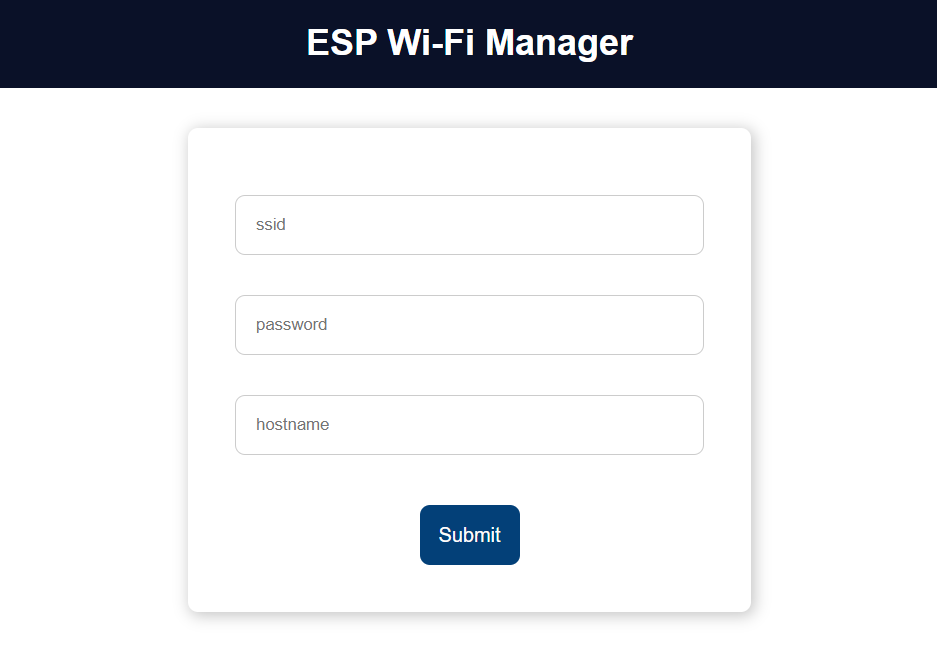
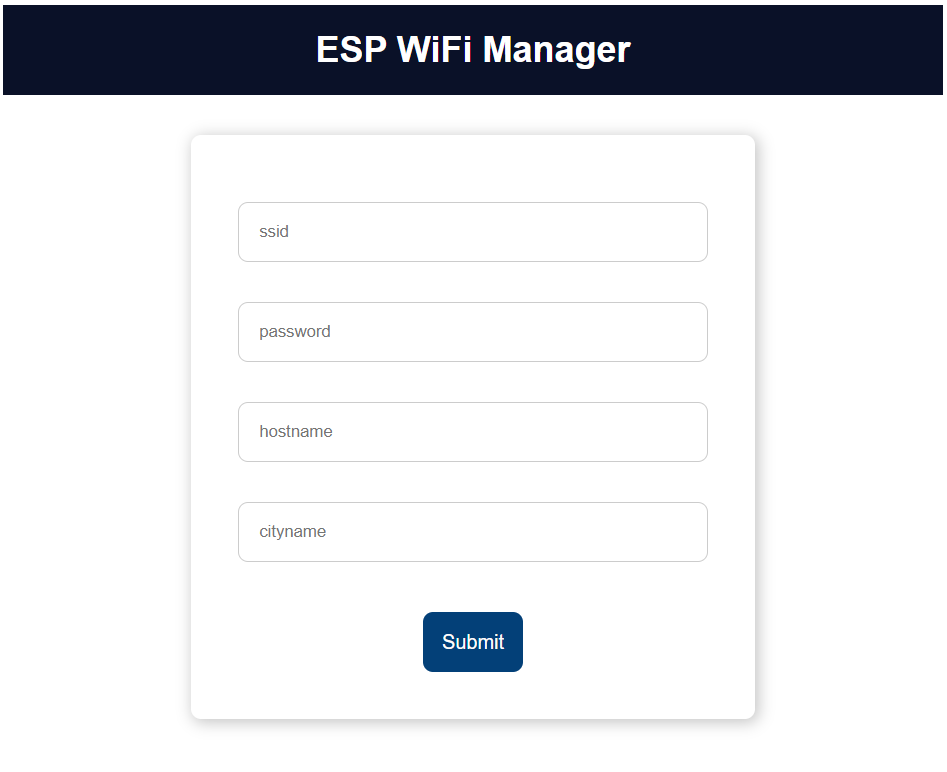
Rewrite README

diff --git a/WiFi_Manager/data/wifimanager.html b/WiFi_Manager/data/wifimanager.html
@@ -5,7 +5,7 @@
     <meta http-equiv="X-UA-Compatible" content="IE=edge" />
     <meta name="viewport" content="width=device-width, initial-scale=1.0" />
     <link rel="stylesheet" type="text/css" href="style.css" />
-    <title>WIFI Manager</title>
+    <title>WiFi Manager</title>
   </head>
   <body>
     <div class="topnav">

diff --git a/WiFi_Manager/OLED.h b/WiFi_Manager/OLED.h
@@ -1,0 +1,97 @@
+void show_receive_error() {
+    // Update NTP time
+    timeClient.update();
+    String formattedTime = timeClient.getFormattedTime();
+
+    oled.clear();
+    oled.drawBitmap(80, 30, 40, 32, error_40x32);
+    oled.drawBitmap(112, 4, 16, 16, signal_16x16);
+    oled.setFont(&Dialog_bold_10);
+    oled.print(30, 4, formattedTime.c_str());
+    oled.drawFastHLine(0, 20, 128);
+    oled.print(0, 24, "Receive");
+    oled.print(0, 37, "Error:");
+    oled.print(0, 50, String(weather.code).c_str());
+    oled.show();
+}
+
+void show_weather() {
+    // Update NTP time
+    timeClient.update();
+    String formattedTime = timeClient.getFormattedTime();
+
+    oled.clear();
+    // Show weather status
+    if (weather.weather == "Rain" || weather.weather == "Drizzle") {
+        oled.drawBitmap(80, 25, 40, 40, rain_40x40);
+    } else if (weather.weather == "Thunderstorm") {
+        oled.drawBitmap(80, 25, 40, 40, thunderstorm_40x40);
+    } else if (weather.weather == "Snow") {
+        oled.drawBitmap(80, 25, 40, 40, snow_40x40);
+    } else if (weather.weather == "Clouds") {
+        oled.drawBitmap(80, 30, 40, 32, cloud_40x32);
+    } else if (weather.weather == "Clear") {
+        oled.drawBitmap(80, 30, 40, 32, sun_40x32);
+    } else {
+        oled.drawBitmap(80, 30, 40, 32, mist_40x32);
+    }
+    oled.drawBitmap(112, 4, 16, 16, signal_16x16);
+    // Show temp and humidity
+    oled.setFont(&Orbitron_Bold_16);
+    char message[50] = {0};
+    sprintf(message, "%3.1f-C", weather.temp);
+    oled.print(0, 24, message);
+    sprintf(message, "%3.1f%c", weather.humidity, '%');
+    oled.print(0, 44, message);
+    // Show time
+    oled.setFont(&Dialog_bold_10);
+    oled.drawFastHLine(0, 20, 128);
+    oled.print(30, 4, formattedTime.c_str());
+    oled.show();
+}
+
+void show_AP_mode() {
+    oled.clear();
+    oled.setFont(&Dialog_bold_10);
+    oled.drawBitmap(44, 0, 40, 40, AP_40x40);
+    oled.print(0, 38, "SSID:WiFi Manager");
+    oled.print(0, 51, "PWD:123456789");
+    oled.show();
+}
+
+void show_trying_connect() {
+    oled.clear();
+    oled.setFont(&Dialog_bold_10);
+    char message[50];
+    sprintf(message, "Tring to connect to %s...", wifi.ssid);
+    oled.drawBitmap(44, 0, 40, 32, WiFi_Lost_40x32);
+    oled.print(0, 35, message);
+    oled.show();
+}
+
+void show_connect_failed() {
+    oled.clear();
+    oled.setFont(&Dialog_bold_10);
+    oled.drawBitmap(44, 0, 40, 32, WiFi_Lost_40x32);
+    oled.print(0, 35, "Timeout. Switch to AP mode");
+    oled.show();
+}
+
+void show_connect_success() {
+    oled.clear();
+    oled.setFont(&Dialog_bold_10);
+    oled.drawBitmap(44, 0, 40, 32, WiFi_40x32);
+    oled.print(0, 35, "Connect successful.");
+    char message[50];
+    sprintf(message, "IP:%s", WiFi.localIP().toString().c_str());
+    oled.print(0, 48, message);
+    oled.show();
+}
+
+void show_restart() {
+    oled.clear();
+    oled.setFont(&Dialog_bold_10);
+    oled.drawBitmap(44, 0, 40, 40, restart_40x40);
+    oled.print(20, 40, "Restarting...");
+    oled.show();
+}

diff --git a/WiFi_Manager/WiFi_event.h b/WiFi_Manager/WiFi_event.h
@@ -1,11 +1,6 @@
 void setAP() {
-    // Show AP Mode message
-    oled.clear();
-    oled.setFont(&Dialog_bold_10);
-    oled.drawBitmap(44, 0, 40, 40, AP_40x40);
-    oled.print(0, 38, "SSID:WiFi Manager");
-    oled.print(0, 51, "PWD:123456789");
-    oled.show();
+    // OLE show AP Mode message
+    show_AP_mode();
     Serial.println("Reconfig WiFi started!");
     // Reset server first before set AP mode
     server.reset();
@@ -25,14 +20,8 @@ bool setSTA() {
     if (!updateSPIFFS()) {
         return false;
     }
-    // Show connection message
-    oled.clear();
-    oled.setFont(&Dialog_bold_10);
-    char message[50];
-    sprintf(message, "Tring to connect to %s...", wifi.ssid);
-    oled.drawBitmap(44, 0, 40, 32, WiFi_Lost_40x32);
-    oled.print(0, 35, message);
-    oled.show();
+    // OLED show connection message
+    show_trying_connect();
     // Configure STA
     WiFi.mode(WIFI_STA);
     WiFi.setHostname(wifi.hostname.c_str());
@@ -53,12 +42,8 @@ bool setSTA() {
         else if (millis() - connectTime > 50000) {
             Serial.println();
             Serial.println("Timeout! Connect failed!");
-            // Show connection failed message
-            oled.clear();
-            oled.setFont(&Dialog_bold_10);
-            oled.drawBitmap(44, 0, 40, 32, WiFi_Lost_40x32);
-            oled.print(0, 35, "Timeout. Switch to AP mode");
-            oled.show();
+            // OELD show connection failed message
+            show_connect_failed();
             delay(3000);
             return false;
         }
@@ -66,13 +51,7 @@ bool setSTA() {
     Serial.println();
     Serial.println(WiFi.localIP());
     // Show connection success message
-    oled.clear();
-    oled.setFont(&Dialog_bold_10);
-    oled.drawBitmap(44, 0, 40, 32, WiFi_40x32);
-    oled.print(0, 35, "Connect successful.");
-    sprintf(message, "IP:%s", WiFi.localIP().toString().c_str());
-    oled.print(0, 48, message);
-    oled.show();
+    show_connect_success();
     delay(3000);
     return true;
 }
@@ -99,13 +78,7 @@ void initWiFi() {
             if (isAPMode)
                 return;
             // Show connection message
-            oled.clear();
-            oled.setFont(&Dialog_bold_10);
-            char message[50];
-            sprintf(message, "Tring to connect to %s...", wifi.ssid);
-            oled.drawBitmap(44, 0, 40, 32, WiFi_Lost_40x32);
-            oled.print(0, 35, message);
-            oled.show();
+            show_trying_connect();
             Serial.println("WiFi lost connection. Trying to reconnect...");
             WiFi.begin(wifi.ssid.c_str(), wifi.pwd.c_str());
         });

diff --git a/WiFi_Manager/tasks.h b/WiFi_Manager/tasks.h
@@ -20,43 +20,10 @@ void task4callback() {
     if (isAPMode || WiFi.status() != WL_CONNECTED)
         return;
     if (weather.code != 200) {
-        oled.clear();
-        oled.setFont(&Dialog_bold_10);
-        oled.drawBitmap(44, 0, 40, 32, error_40x32);
-        oled.print(0, 35, "Receive weather   data error!");
-        oled.show();
+        // OLED show receive error
+        show_receive_error();
     } else {
-        // Update NTP time
-        timeClient.update();
-        String formattedTime = timeClient.getFormattedTime();
-
-        oled.clear();
-        // Show weather status
-        if (weather.weather == "Rain" || weather.weather == "Drizzle") {
-            oled.drawBitmap(80, 25, 40, 40, rain_40x40);
-        } else if (weather.weather == "Thunderstorm") {
-            oled.drawBitmap(80, 25, 40, 40, thunderstorm_40x40);
-        } else if (weather.weather == "Snow") {
-            oled.drawBitmap(80, 25, 40, 40, snow_40x40);
-        } else if (weather.weather == "Clouds") {
-            oled.drawBitmap(80, 30, 40, 32, cloud_40x32);
-        } else if (weather.weather == "Clear") {
-            oled.drawBitmap(80, 30, 40, 32, sun_40x32);
-        } else {
-            oled.drawBitmap(80, 30, 40, 32, mist_40x32);
-        }
-        oled.drawBitmap(112, 4, 16, 16, signal_16x16);
-        // Show temp and humidity
-        oled.setFont(&Orbitron_Bold_16);
-        char message[50] = {0};
-        sprintf(message, "%3.1f-C", weather.temp);
-        oled.print(0, 24, message);
-        sprintf(message, "%3.1f%c", weather.humidity, '%');
-        oled.print(0, 44, message);
-        // Show time
-        oled.setFont(&Dialog_bold_10);
-        oled.drawFastHLine(0, 20, 128);
-        oled.print(30, 4, formattedTime.c_str());
-        oled.show();
+        // OLED show time and weather information
+        show_weather();
     }
 }

diff --git a/WiFi_Manager/server_event.h b/WiFi_Manager/server_event.h
@@ -17,11 +17,8 @@ void WiFiManageServer() {
         }
         writeSPIFFS(wmssid, wmpwd, wmhostname, wmcity);
         request->send(200, "text/plain", "Configure Done. ESP restarting...");
-        oled.clear();
-        oled.setFont(&Dialog_bold_10);
-        oled.drawBitmap(44, 0, 40, 40, restart_40x40);
-        oled.print(20, 40, "Restarting...");
-        oled.show();
+        // OLED show restarting
+        show_restart();
         ESP.restart();
     });
 

diff --git a/README.md b/README.md
@@ -1,51 +1,54 @@
-# ESP32 WiFi Manager
+# ESP8266 Weather Station
 
-In this project, instead of use plenty of wifi-manager libraries, I write my own project for manage wifi.
+## 1. Preview
 
-When first start up, ESP32 will check for `ssid`, `password` and  `hostname` for STA connection. If connection failed, it will switch to `AP` mode which can be used for **configure wifi network**.
+In this project, I build a `Cloud Weather Station` using ESP8266.
 
-You can also use `BOOT button` on ESP32 to manually switch into `AP` mode.
+This project features:
+
+- WiFi Manager
+- WiFi Auto Reconncet
+- Minutely Weather Forecast
+- Any China City Available
+- NTP(Network Time Protocol)
+
+Time information from [NTP API](http://www.ntp.org/), and weather information from [Openweathermap API](https://openweathermap.org/)
+
+## 2. Information and Errors
+
+### 2.1 Start Up
+
+When first start up, ESP8266 will check for `ssid`, `password`,  `hostname` and `city` for WiFi connection.
+
+![Start-up](images/connect-error.png)
+
+### 2.2 Start Up Error
+
+If connection failed, it will automatically switch to `AP Mode` for configuration.
+
+![AP-Mode](images/AP.png)
+
+You can follow OLED information to connect ESP8266 for configuration. Default AP ssid is `WiFi Manager`, default password is `123456789`. After that go to your browser to `192.168.4.1`, you will see below configuration page.
+
+![WiFi-Manage](images/WiFi-Manage.png)
+
+I add a custom button to manualy switch to AP mode.
 
 ```cpp
 pinMode(INT_PIN, INPUT_PULLUP);
 attachInterrupt(digitalPinToInterrupt(INT_PIN), intReconfigWiFi, FALLING);
 ```
 
-![WiFi-Manage](images/WiFi-Manage.png)
+### 2.3 Start Up Success
 
-The demo application for this project is toggling LED, you can change it for your own application.
+However if all goes well, OLED will show connect success information, and then goes into home page. Time and weather information are both from internet, so you must connect WiFi first.
 
-```cpp
-// Route to set GPIO state to HIGH
-server.on("/on", HTTP_GET, [](AsyncWebServerRequest* request) {
-    isDisplay = true;
-    digitalWrite(LED, isDisplay);
-    request->send(SPIFFS, "/index.html", "text/html", false, processor);
-});
+![Home-page](images/Home.png)
 
-// Route to set GPIO state to LOW
-server.on("/off", HTTP_GET, [](AsyncWebServerRequest* request) {
-    isDisplay = false;
-    digitalWrite(LED, isDisplay);
-    request->send(SPIFFS, "/index.html", "text/html", false, processor);
-});
-```
+### 2.4 Receive Weather Data Error
 
-![WiFi-App](images/WiFi-App.png)
+When receive weather data from `openweathermap`, it may come into some error, so you may need to check it yourself.
 
-I also add `WiFi Auto reconnect` if ESP32 lost connection because of some reasons. This is useful for some other projects.
+![Receive-error](images/receive-error.png)
 
-```cpp
-void WiFiStationDisconnected(WiFiEvent_t event, WiFiEventInfo_t info) {
-    // Return when configure WiFi
-    if (isReconfigWiFi)
-        return;
-    // Reconnect WiFi
-    Serial.print("WiFi lost connection. Reason: ");
-    Serial.println(info.disconnected.reason);
-    Serial.println("Trying to Reconnect");
-    WiFi.begin(ssid.c_str(), password.c_str());
-}
-```
-
-Happy Hacking!
+That's all. Happy Hacking!
